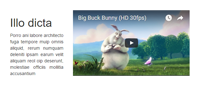
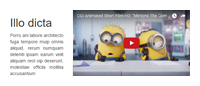
Update new photos for snippets

diff --git a/src/main/webapp/templates/apps/content/webSnippets.html b/src/main/webapp/templates/apps/content/webSnippets.html
@@ -6,7 +6,7 @@
         <div class="col-sm-12" data-type="container-content">
             <section data-type="component-photo">
                 <div class="photo-panel" style="text-align: center;">
-                    <img src="/theme/apps/content/img/yenbai_vietnam.jpg" width="100%" height="" style="display: inline-block; width: 400px; height: 267px;" class="img-thumbnail">
+                    <img src="/static/images/ballon_flight.jpg" width="100%" height="" style="display: inline-block; width: 400px; height: 267px;" class="img-thumbnail">
                 </div>
             </section>
             <section data-type="component-text">
@@ -48,7 +48,7 @@
             <section data-type="component-youtube">
                 <div class="youtube-wrapper">
                     <div class="embed-responsive embed-responsive-16by9">
-                        <iframe class="embed-responsive-item" src="https://www.youtube.com/embed/P5yHEKqx86U"></iframe>
+                        <iframe class="embed-responsive-item" src="https://www.youtube.com/embed/JBkCeYvuEO0"></iframe>
                     </div>
                 </div>
             </section>
@@ -91,21 +91,21 @@
         <div class="col-sm-4" data-type="container-content">
             <section data-type="component-photo">
                 <div class="photo-panel">
-                    <img src="/theme/apps/content/img/somewhere_bangladesh_squared.jpg" width="100%" height="" style="display: inline-block;" class="img-thumbnail">
+                    <img src="/static/images/basketball_net_squared.jpg" width="100%" height="" style="display: inline-block;" class="img-thumbnail">
                 </div>
             </section>
         </div>
         <div class="col-sm-4" data-type="container-content">
             <section data-type="component-photo">
                 <div class="photo-panel">
-                    <img src="/theme/apps/content/img/sydney_australia_squared.jpg" width="100%" height="" style="display: inline-block;" class="img-thumbnail">
+                    <img src="/static/images/boxing_gloves_squared.jpg" width="100%" height="" style="display: inline-block;" class="img-thumbnail">
                 </div>
             </section>
         </div>
         <div class="col-sm-4" data-type="container-content">
             <section data-type="component-photo">
                 <div class="photo-panel">
-                    <img src="/theme/apps/content/img/wellington_newzealand_squared.jpg" width="100%" height="" style="display: inline-block;" class="img-thumbnail">
+                    <img src="/static/images/soccer_ball_squared.jpg" width="100%" height="" style="display: inline-block;" class="img-thumbnail">
                 </div>
             </section>
         </div>
@@ -128,7 +128,7 @@
         <div class="col-sm-3" data-type="container-content">
             <section data-type="component-photo">
                 <div class="photo-panel">
-                    <img src="/theme/apps/content/img/somewhere_bangladesh_squared.jpg" width="100%" height="" style="display: inline-block;" class="img-rounded">
+                    <img src="/static/images/mp3_player_squared.jpg" width="100%" height="" style="display: inline-block;" class="img-rounded">
                 </div>
             </section>
         </div>
@@ -140,7 +140,7 @@
         <div class="col-sm-3" data-type="container-content">
             <section data-type="component-photo">
                 <div class="photo-panel">
-                    <img src="/theme/apps/content/img/yenbai_vietnam_squared.jpg" width="100%" height="" style="display: inline-block;" class="img-circle">
+                    <img src="/static/images/yenbai_vietnam_squared.jpg" width="100%" height="" style="display: inline-block;" class="img-circle">
                 </div>
             </section>
             <section data-type="component-text">
@@ -150,7 +150,7 @@
         <div class="col-sm-3" data-type="container-content">
             <section data-type="component-photo">
                 <div class="photo-panel">
-                    <img src="/theme/apps/content/img/sydney_australia_squared.jpg" width="100%" height="" style="display: inline-block;" class="img-circle">
+                    <img src="/static/images/sydney_australia_squared.jpg" width="100%" height="" style="display: inline-block;" class="img-circle">
                 </div>
             </section>
             <section data-type="component-text">
@@ -160,7 +160,7 @@
         <div class="col-sm-3" data-type="container-content">
             <section data-type="component-photo">
                 <div class="photo-panel">
-                    <img src="/theme/apps/content/img/somewhere_bangladesh_squared.jpg" width="100%" height="" style="display: inline-block;" class="img-circle">
+                    <img src="/static/images/somewhere_bangladesh_squared.jpg" width="100%" height="" style="display: inline-block;" class="img-circle">
                 </div>
             </section>
             <section data-type="component-text">
@@ -170,7 +170,7 @@
         <div class="col-sm-3" data-type="container-content">
             <section data-type="component-photo">
                 <div class="photo-panel">
-                    <img src="/theme/apps/content/img/wellington_newzealand_squared.jpg" width="100%" height="" style="display: inline-block;" class="img-circle">
+                    <img src="/static/images/wellington_newzealand_squared.jpg" width="100%" height="" style="display: inline-block;" class="img-circle">
                 </div>
             </section>
             <section data-type="component-text">
@@ -265,7 +265,7 @@
 
 <div data-type="component-photo" data-preview="/theme/apps/content/preview/photo.png">
     <div class="photo-panel">
-        <img src="/theme/apps/content/img/somewhere_bangladesh.jpg" width="100%" height=""/>
+        <img src="/static/images/somewhere_bangladesh.jpg" width="100%" height=""/>
     </div>
 </div>
 
@@ -284,7 +284,7 @@
 <div data-type="component-youtube" data-preview="/theme/apps/content/preview/youtube.png">
     <div class="youtube-wrapper">
         <div class="embed-responsive embed-responsive-16by9">
-            <iframe class="embed-responsive-item" src="https://www.youtube.com/embed/P5yHEKqx86U"></iframe>
+            <iframe class="embed-responsive-item" src="https://www.youtube.com/embed/JBkCeYvuEO0"></iframe>
         </div>
     </div>
 </div>
@@ -292,7 +292,7 @@
 <div data-type="component-vimeo" data-preview="/theme/apps/content/preview/vimeo.png">
     <div class="vimeo-wrapper">
         <div class="embed-responsive embed-responsive-16by9">
-            <iframe class="embed-responsive-item" src="https://player.vimeo.com/video/2203727?byline=0&portrait=0&badge=0"></iframe>
+            <iframe class="embed-responsive-item" src="https://player.vimeo.com/video/26877221?byline=0&portrait=0&badge=0"></iframe>
         </div>
     </div>
 </div>
